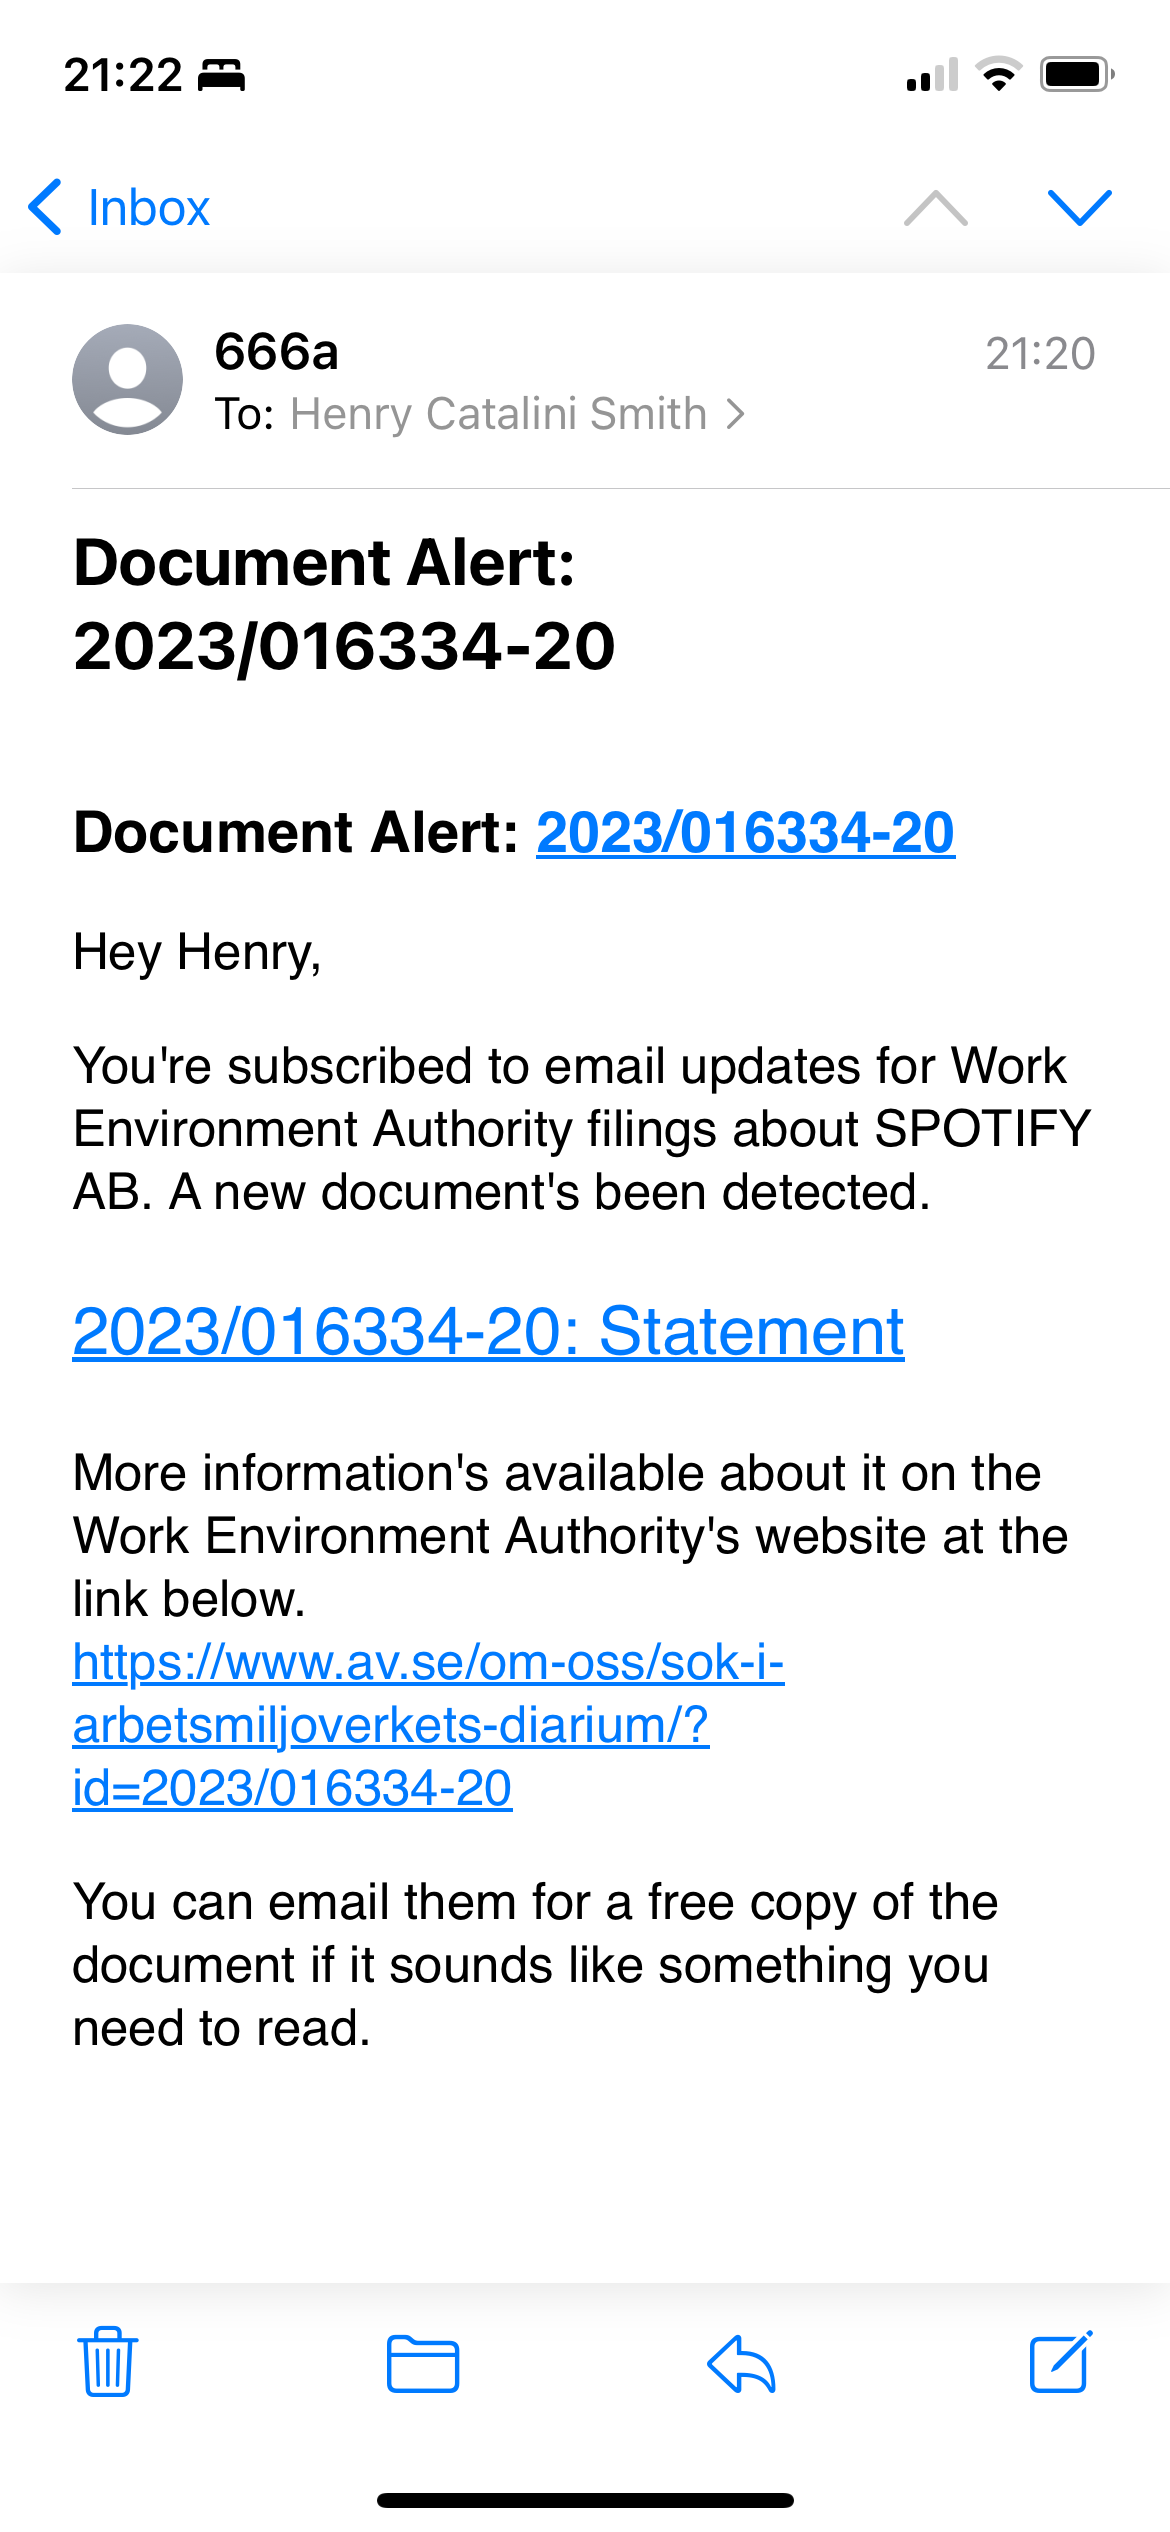
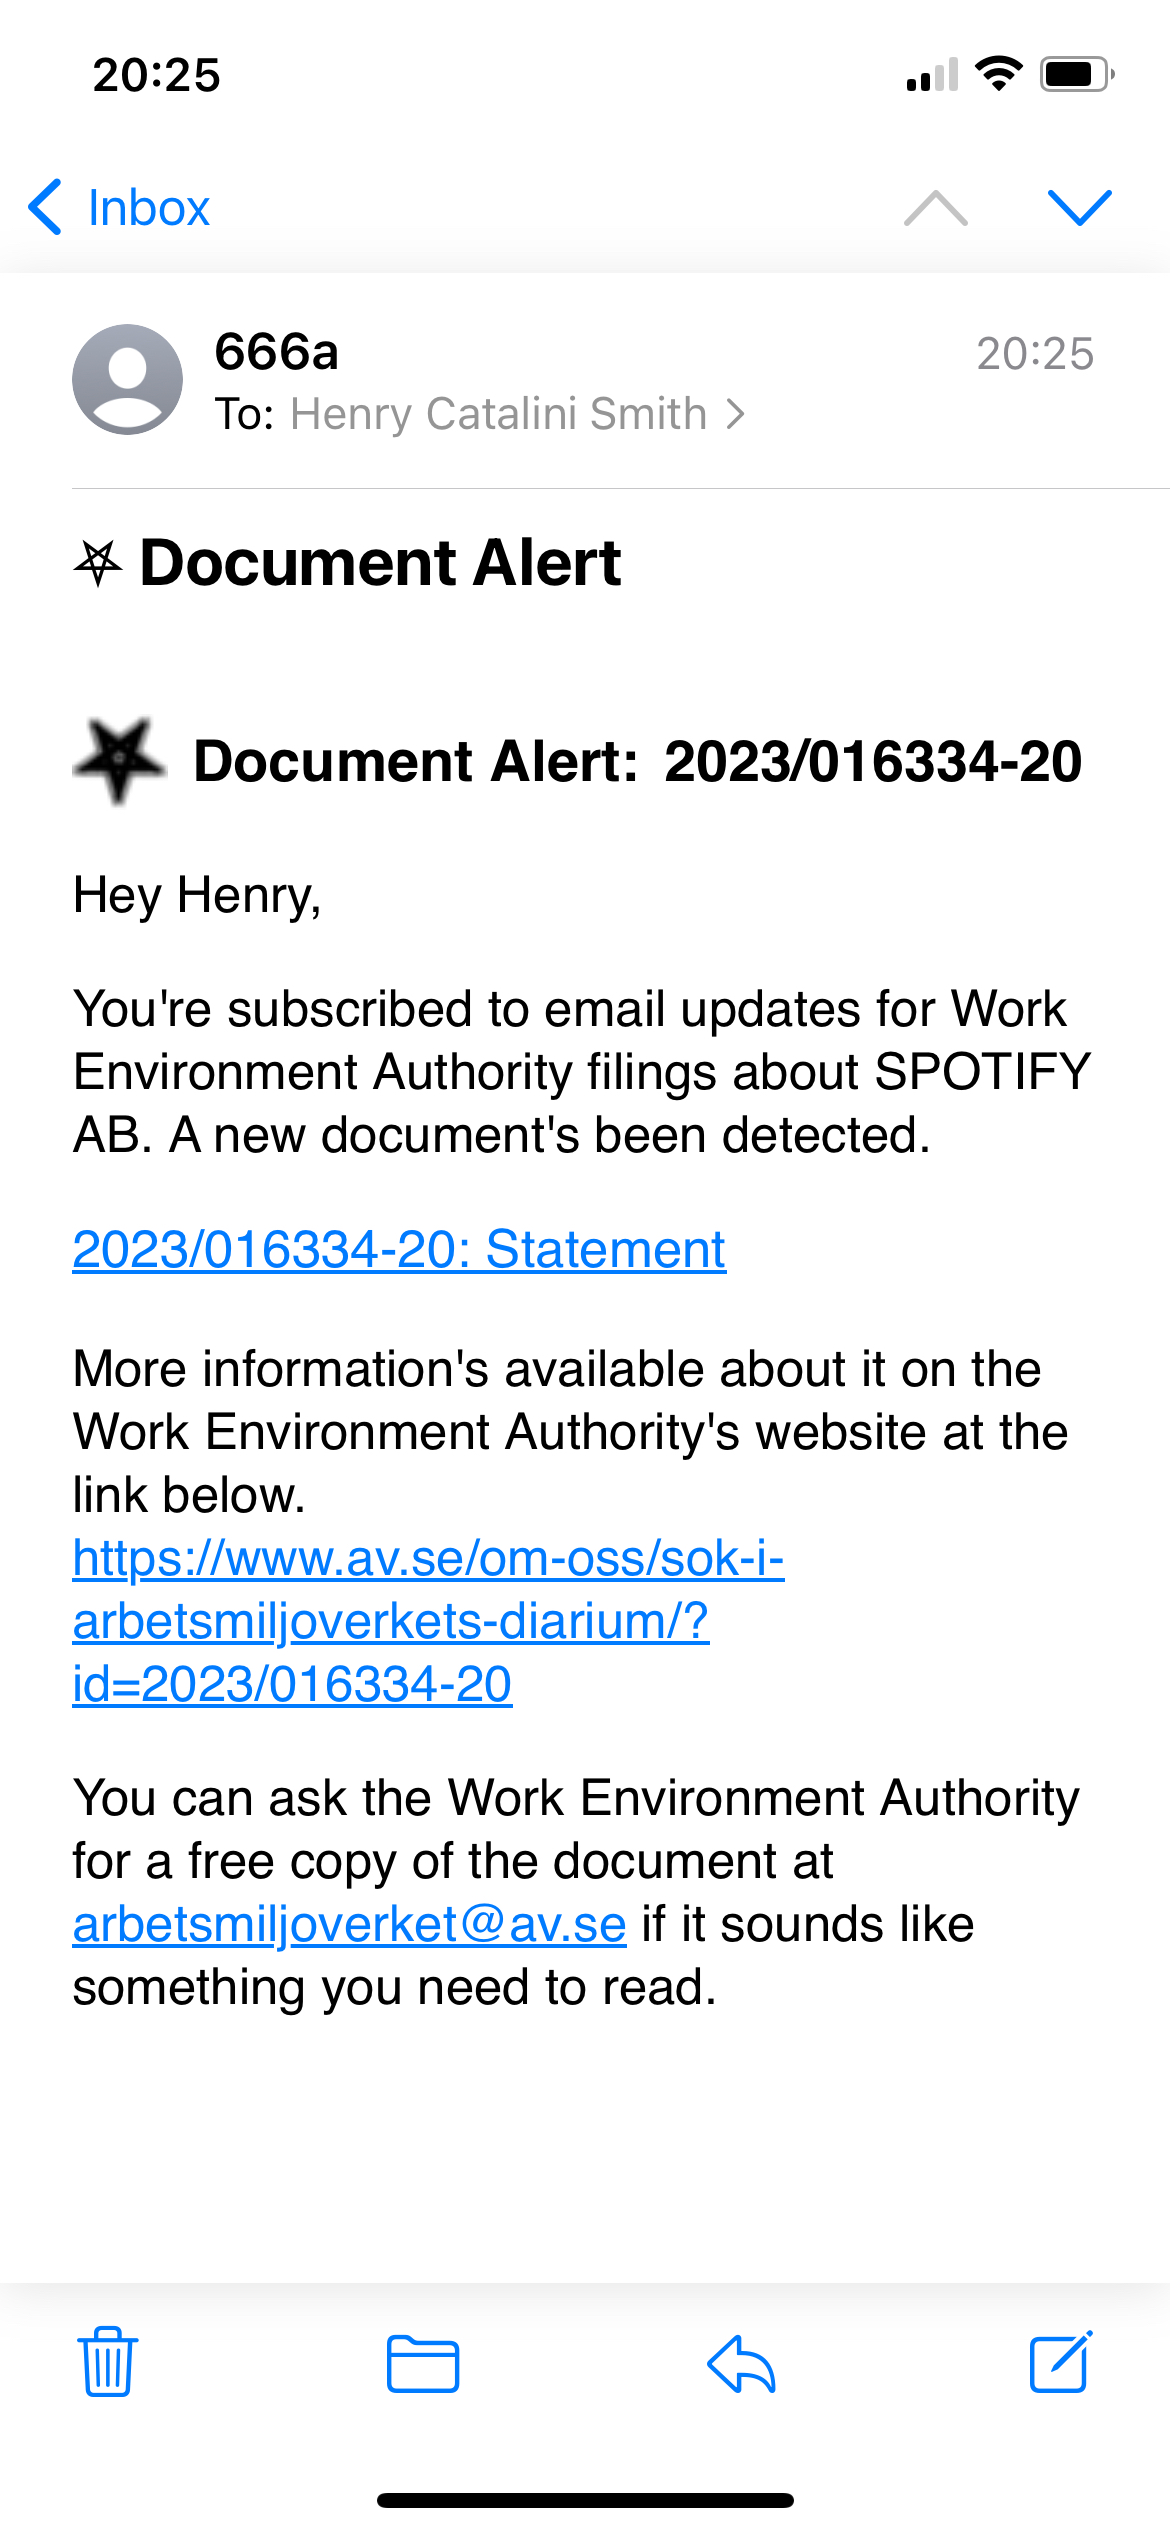
email

Changed region(s): [[0.0615, 0.1872, 0.9231, 0.8112], [0.0615, 0.0, 0.2154, 0.0312], [0.8308, 0.1248, 0.9231, 0.156]]

diff --git a/app/mailers/notification_mailer.rb b/app/mailers/notification_mailer.rb
@@ -7,7 +7,7 @@ class NotificationMailer < ApplicationMailer
     I18n.with_locale(@user.locale) do
       mail(
         to: @user.email,
-        subject: t("notification_email.title", document_code: @result.document_code),
+        subject: t("notification_email.subject"),
         from: "666a <hen@666a.se>"
       )
     end
